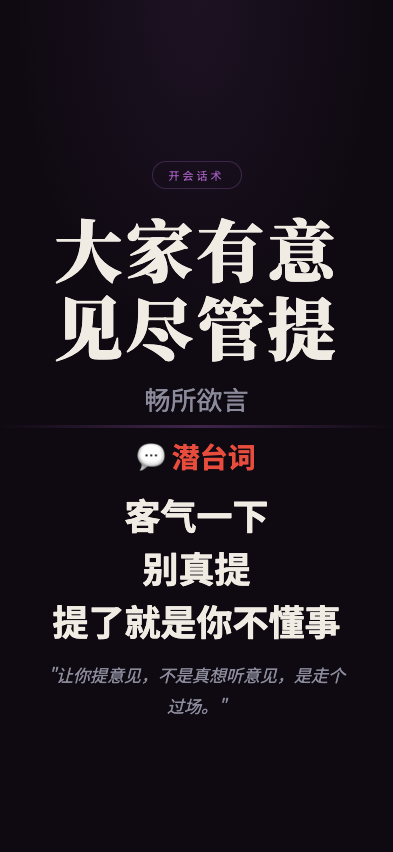
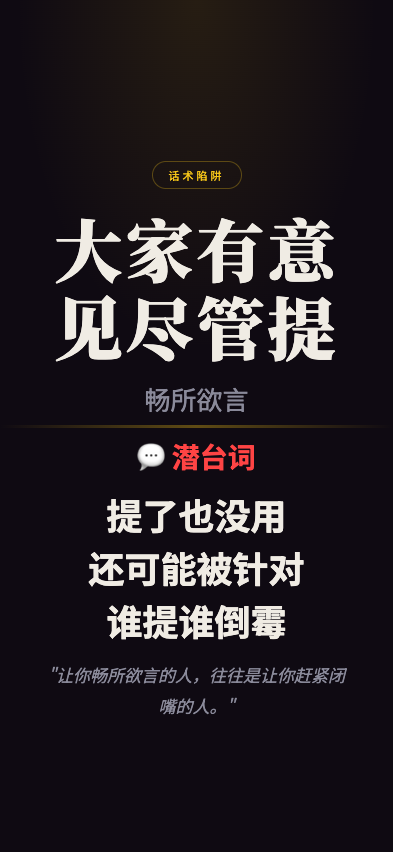
feat: 职场生存法则 screenshot - dajiayouyijianjinguanti

Changed region(s): [[0.1221, 0.5798, 0.8855, 0.8545], [0.2443, 0.4883, 0.7634, 0.5188], [0.4275, 0.1831, 0.5802, 0.2136]]

diff --git a/wuliao-tools/tools/biz-speak/scenes/dajiayouyijianjinguanti.html b/wuliao-tools/tools/biz-speak/scenes/dajiayouyijianjinguanti.html
@@ -10,8 +10,8 @@
     --bg: #0f0a12;
     --text: #f0ece4;
     --text-dim: #8a8a9a;
-    --gold: #9b59b6;
-    --red: #e74c3c;
+    --gold: #f5c518;
+    --red: #ff4444;
   }
   * { margin:0; padding:0; box-sizing:border-box; }
   html, body { width:100%; height:100%; overflow:hidden; }
@@ -24,11 +24,11 @@
   }
   body::before {
     content:''; position:absolute; top:0; left:0; right:0; height:45%;
-    background:radial-gradient(ellipse at 50% 0%, rgba(155,89,182,0.1) 0%, transparent 65%);
+    background:radial-gradient(ellipse at 50% 0%, rgba(245,197,24,0.1) 0%, transparent 65%);
     pointer-events:none; z-index:0;
   }
   .top { flex:1; display:flex; flex-direction:column; align-items:center; justify-content:flex-end; padding:4px 28px 8px; position:relative; z-index:1; }
-  .tag { font-size:11px; letter-spacing:3px; color:var(--gold); border:1px solid rgba(155,89,182,0.3); padding:5px 16px; border-radius:50px; margin-bottom:20px; }
+  .tag { font-size:11px; letter-spacing:3px; color:var(--gold); border:1px solid rgba(245,197,24,0.3); padding:5px 16px; border-radius:50px; margin-bottom:20px; }
   .main-title { font-family:'Noto Serif SC'; font-size:68px; font-weight:900; text-align:center; line-height:1.15; letter-spacing:3px; min-width:0; overflow-wrap:break-word; max-width:92%; }
   .sub-title { font-size:26px; color:var(--text-dim); text-align:center; margin-top:14px; }
   .divider { width:100%; height:3px; background:linear-gradient(90deg,transparent,var(--gold),transparent); opacity:0.35; flex-shrink:0; position:relative; z-index:1; }
@@ -41,7 +41,7 @@
 </head>
 <body>
   <div class="top">
-    <div class="tag">开会话术</div>
+    <div class="tag">话术陷阱</div>
     <div class="main-title">大家有意见尽管提</div>
     <div class="sub-title">畅所欲言</div>
   </div>
@@ -49,11 +49,11 @@
   <div class="bottom">
     <div class="truth-label">💬 潜台词</div>
     <div class="truth-lines">
-      <div class="truth-line">客气一下</div>
-      <div class="truth-line">别真提</div>
-      <div class="truth-line">提了就是你不懂事</div>
+      <div class="truth-line">提了也没用</div>
+      <div class="truth-line">还可能被针对</div>
+      <div class="truth-line">谁提谁倒霉</div>
     </div>
-    <div class="quote">"让你提意见，不是真想听意见，是走个过场。"</div>
+    <div class="quote">"让你畅所欲言的人，往往是让你赶紧闭嘴的人。"</div>
   </div>
 </body>
 </html>
